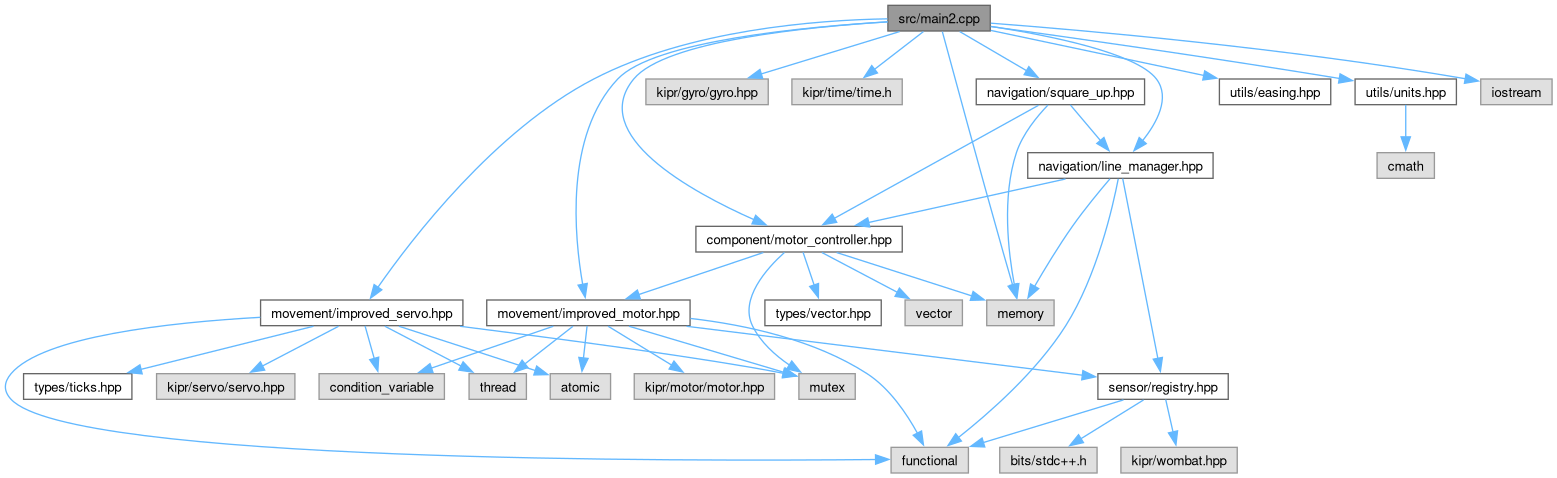
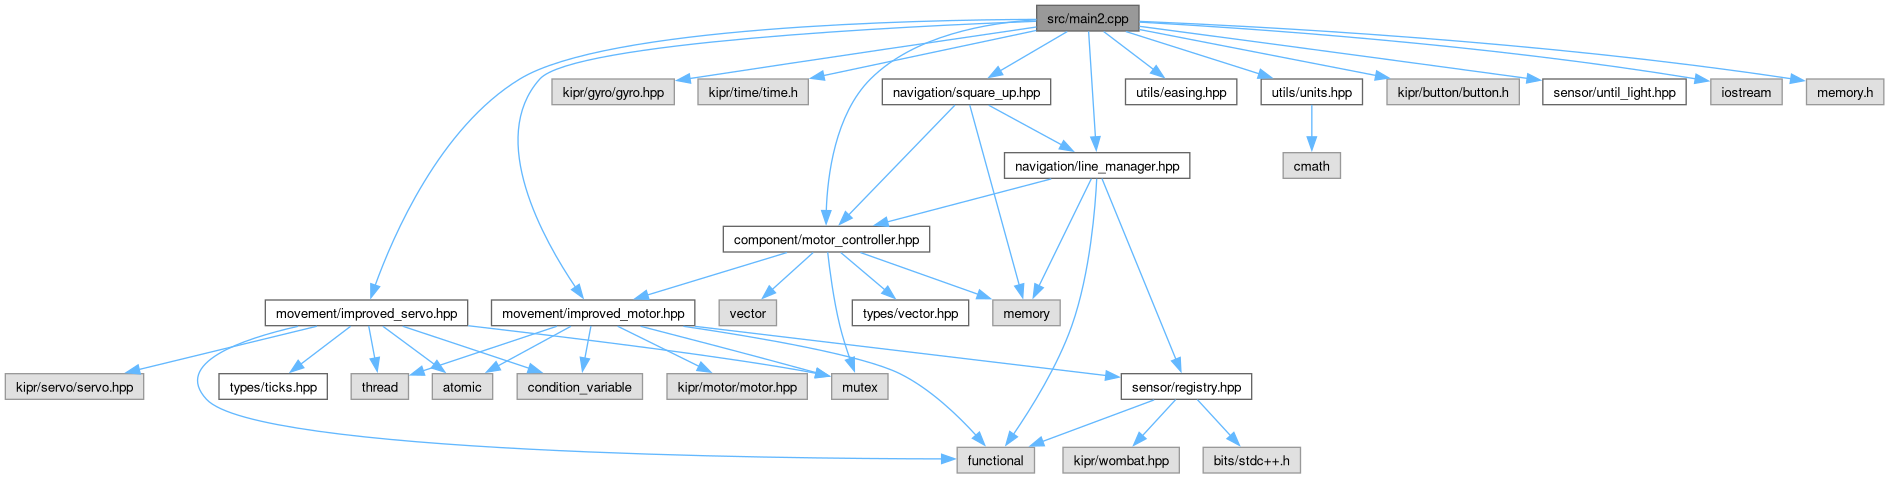
deploy: VentiBotball/venti-lib@db5460bce71724e69e527635307dcb5ff8ffeb50

diff --git a/dir_000012_000004.html b/dir_000012_000004.html
@@ -102,7 +102,7 @@ $(function(){initNavTree('dir_68267d1309a1af8e8297ef4c3efbcdba.html',''); initRe
 </div>
 
 <div class="contents">
-<h3>src &rarr; include Relation</h3><table class="dirtab"><tr class="dirtab"><th class="dirtab">File in src</th><th class="dirtab">Includes file in include</th></tr><tr class="dirtab"><td class="dirtab"><a class="el" href="dir_9b051f5a462ebc902d5afef8d9317d03.html">component</a>&#160;/&#160;<a class="el" href="arm__controller_8cpp.html">arm_controller.cpp</a></td><td class="dirtab"><a class="el" href="dir_d731d555c5e3812a0419949a634d88b3.html">component</a>&#160;/&#160;<a class="el" href="arm__controller_8hpp.html">arm_controller.hpp</a></td></tr><tr class="dirtab"><td class="dirtab"><a class="el" href="dir_9b051f5a462ebc902d5afef8d9317d03.html">component</a>&#160;/&#160;<a class="el" href="arm__controller_8cpp.html">arm_controller.cpp</a></td><td class="dirtab"><a class="el" href="dir_0ad255a918b7fba820a1ddafed6fa637.html">types</a>&#160;/&#160;<a class="el" href="vector_8hpp.html">vector.hpp</a></td></tr><tr class="dirtab"><td class="dirtab"><a class="el" href="dir_6d2104db64b91953bbd7b8fedbb8a094.html">communication</a>&#160;/&#160;<a class="el" href="client_8cpp.html">client.cpp</a></td><td class="dirtab"><a class="el" href="dir_ca930d033be57d703a34bf99bb5a03c5.html">communication</a>&#160;/&#160;<a class="el" href="client_8hpp.html">client.hpp</a></td></tr><tr class="dirtab"><td class="dirtab"><a class="el" href="dir_9b051f5a462ebc902d5afef8d9317d03.html">component</a>&#160;/&#160;<a class="el" href="dir_06cd9e38d0fe0886543590f69141c73e.html">motor_controller</a>&#160;/&#160;<a class="el" href="default__motor__controller_8cpp.html">default_motor_controller.cpp</a></td><td class="dirtab"><a class="el" href="dir_d731d555c5e3812a0419949a634d88b3.html">component</a>&#160;/&#160;<a class="el" href="motor__controller_8hpp.html">motor_controller.hpp</a></td></tr><tr class="dirtab"><td class="dirtab"><a class="el" href="dir_9b051f5a462ebc902d5afef8d9317d03.html">component</a>&#160;/&#160;<a class="el" href="dir_06cd9e38d0fe0886543590f69141c73e.html">motor_controller</a>&#160;/&#160;<a class="el" href="default__motor__controller_8cpp.html">default_motor_controller.cpp</a></td><td class="dirtab"><a class="el" href="dir_821002d4f10779a80d4fb17bc32f21f1.html">utils</a>&#160;/&#160;<a class="el" href="units_8hpp.html">units.hpp</a></td></tr><tr class="dirtab"><td class="dirtab"><a class="el" href="dir_6d2104db64b91953bbd7b8fedbb8a094.html">communication</a>&#160;/&#160;<a class="el" href="heartbeat_8cpp.html">heartbeat.cpp</a></td><td class="dirtab"><a class="el" href="dir_ca930d033be57d703a34bf99bb5a03c5.html">communication</a>&#160;/&#160;<a class="el" href="heartbeat_8hpp.html">heartbeat.hpp</a></td></tr><tr class="dirtab"><td class="dirtab"><a class="el" href="dir_3c3b062525f3b887eb50e782b5b052f0.html">movement</a>&#160;/&#160;<a class="el" href="improved__motor_8cpp.html">improved_motor.cpp</a></td><td class="dirtab"><a class="el" href="dir_0cdd1667b955f726f508381e5717a497.html">movement</a>&#160;/&#160;<a class="el" href="improved__motor_8hpp.html">improved_motor.hpp</a></td></tr><tr class="dirtab"><td class="dirtab"><a class="el" href="dir_3c3b062525f3b887eb50e782b5b052f0.html">movement</a>&#160;/&#160;<a class="el" href="improved__servo_8cpp.html">improved_servo.cpp</a></td><td class="dirtab"><a class="el" href="dir_0cdd1667b955f726f508381e5717a497.html">movement</a>&#160;/&#160;<a class="el" href="improved__servo_8hpp.html">improved_servo.hpp</a></td></tr><tr class="dirtab"><td class="dirtab"><a class="el" href="dir_b9f4d283f63ed92d53714bab84845a59.html">navigation</a>&#160;/&#160;<a class="el" href="line__manager_8cpp.html">line_manager.cpp</a></td><td class="dirtab"><a class="el" href="dir_f9a97623eb43c4acaa6b56958e1c8546.html">navigation</a>&#160;/&#160;<a class="el" href="line__manager_8hpp.html">line_manager.hpp</a></td></tr><tr class="dirtab"><td class="dirtab"><a class="el" href="main_8cpp.html">main.cpp</a></td><td class="dirtab"><a class="el" href="dir_d731d555c5e3812a0419949a634d88b3.html">component</a>&#160;/&#160;<a class="el" href="arm__controller_8hpp.html">arm_controller.hpp</a></td></tr><tr class="dirtab"><td class="dirtab"><a class="el" href="main_8cpp.html">main.cpp</a></td><td class="dirtab"><a class="el" href="dir_821002d4f10779a80d4fb17bc32f21f1.html">utils</a>&#160;/&#160;<a class="el" href="easing_8hpp.html">easing.hpp</a></td></tr><tr class="dirtab"><td class="dirtab"><a class="el" href="main_8cpp.html">main.cpp</a></td><td class="dirtab"><a class="el" href="dir_0cdd1667b955f726f508381e5717a497.html">movement</a>&#160;/&#160;<a class="el" href="improved__servo_8hpp.html">improved_servo.hpp</a></td></tr><tr class="dirtab"><td class="dirtab"><a class="el" href="main_8cpp.html">main.cpp</a></td><td class="dirtab"><a class="el" href="dir_f9a97623eb43c4acaa6b56958e1c8546.html">navigation</a>&#160;/&#160;<a class="el" href="line__manager_8hpp.html">line_manager.hpp</a></td></tr><tr class="dirtab"><td class="dirtab"><a class="el" href="main_8cpp.html">main.cpp</a></td><td class="dirtab"><a class="el" href="dir_d731d555c5e3812a0419949a634d88b3.html">component</a>&#160;/&#160;<a class="el" href="motor__controller_8hpp.html">motor_controller.hpp</a></td></tr><tr class="dirtab"><td class="dirtab"><a class="el" href="main_8cpp.html">main.cpp</a></td><td class="dirtab"><a class="el" href="dir_f9a97623eb43c4acaa6b56958e1c8546.html">navigation</a>&#160;/&#160;<a class="el" href="square__up_8hpp.html">square_up.hpp</a></td></tr><tr class="dirtab"><td class="dirtab"><a class="el" href="main_8cpp.html">main.cpp</a></td><td class="dirtab"><a class="el" href="dir_821002d4f10779a80d4fb17bc32f21f1.html">utils</a>&#160;/&#160;<a class="el" href="units_8hpp.html">units.hpp</a></td></tr><tr class="dirtab"><td class="dirtab"><a class="el" href="main_8cpp.html">main.cpp</a></td><td class="dirtab"><a class="el" href="dir_7b271abf9afd8594ceaf3484d66fcdf7.html">sensor</a>&#160;/&#160;<a class="el" href="until__light_8hpp.html">until_light.hpp</a></td></tr><tr class="dirtab"><td class="dirtab"><a class="el" href="main2_8cpp.html">main2.cpp</a></td><td class="dirtab"><a class="el" href="dir_821002d4f10779a80d4fb17bc32f21f1.html">utils</a>&#160;/&#160;<a class="el" href="easing_8hpp.html">easing.hpp</a></td></tr><tr class="dirtab"><td class="dirtab"><a class="el" href="main2_8cpp.html">main2.cpp</a></td><td class="dirtab"><a class="el" href="dir_0cdd1667b955f726f508381e5717a497.html">movement</a>&#160;/&#160;<a class="el" href="improved__motor_8hpp.html">improved_motor.hpp</a></td></tr><tr class="dirtab"><td class="dirtab"><a class="el" href="main2_8cpp.html">main2.cpp</a></td><td class="dirtab"><a class="el" href="dir_0cdd1667b955f726f508381e5717a497.html">movement</a>&#160;/&#160;<a class="el" href="improved__servo_8hpp.html">improved_servo.hpp</a></td></tr><tr class="dirtab"><td class="dirtab"><a class="el" href="main2_8cpp.html">main2.cpp</a></td><td class="dirtab"><a class="el" href="dir_f9a97623eb43c4acaa6b56958e1c8546.html">navigation</a>&#160;/&#160;<a class="el" href="line__manager_8hpp.html">line_manager.hpp</a></td></tr><tr class="dirtab"><td class="dirtab"><a class="el" href="main2_8cpp.html">main2.cpp</a></td><td class="dirtab"><a class="el" href="dir_d731d555c5e3812a0419949a634d88b3.html">component</a>&#160;/&#160;<a class="el" href="motor__controller_8hpp.html">motor_controller.hpp</a></td></tr><tr class="dirtab"><td class="dirtab"><a class="el" href="main2_8cpp.html">main2.cpp</a></td><td class="dirtab"><a class="el" href="dir_f9a97623eb43c4acaa6b56958e1c8546.html">navigation</a>&#160;/&#160;<a class="el" href="square__up_8hpp.html">square_up.hpp</a></td></tr><tr class="dirtab"><td class="dirtab"><a class="el" href="main2_8cpp.html">main2.cpp</a></td><td class="dirtab"><a class="el" href="dir_821002d4f10779a80d4fb17bc32f21f1.html">utils</a>&#160;/&#160;<a class="el" href="units_8hpp.html">units.hpp</a></td></tr><tr class="dirtab"><td class="dirtab"><a class="el" href="dir_9b051f5a462ebc902d5afef8d9317d03.html">component</a>&#160;/&#160;<a class="el" href="dir_06cd9e38d0fe0886543590f69141c73e.html">motor_controller</a>&#160;/&#160;<a class="el" href="mecanum__motor__controller_8cpp.html">mecanum_motor_controller.cpp</a></td><td class="dirtab"><a class="el" href="dir_d731d555c5e3812a0419949a634d88b3.html">component</a>&#160;/&#160;<a class="el" href="motor__controller_8hpp.html">motor_controller.hpp</a></td></tr><tr class="dirtab"><td class="dirtab"><a class="el" href="dir_9b051f5a462ebc902d5afef8d9317d03.html">component</a>&#160;/&#160;<a class="el" href="dir_06cd9e38d0fe0886543590f69141c73e.html">motor_controller</a>&#160;/&#160;<a class="el" href="motor__controller_8cpp.html">motor_controller.cpp</a></td><td class="dirtab"><a class="el" href="dir_d731d555c5e3812a0419949a634d88b3.html">component</a>&#160;/&#160;<a class="el" href="motor__controller_8hpp.html">motor_controller.hpp</a></td></tr><tr class="dirtab"><td class="dirtab"><a class="el" href="dir_b9f4d283f63ed92d53714bab84845a59.html">navigation</a>&#160;/&#160;<a class="el" href="playground_8cpp.html">playground.cpp</a></td><td class="dirtab"><a class="el" href="dir_f9a97623eb43c4acaa6b56958e1c8546.html">navigation</a>&#160;/&#160;<a class="el" href="playground_8hpp.html">playground.hpp</a></td></tr><tr class="dirtab"><td class="dirtab"><a class="el" href="dir_919653a6098570dc99a63e645d1b29db.html">sensor</a>&#160;/&#160;<a class="el" href="registry_8cpp.html">registry.cpp</a></td><td class="dirtab"><a class="el" href="dir_7b271abf9afd8594ceaf3484d66fcdf7.html">sensor</a>&#160;/&#160;<a class="el" href="registry_8hpp.html">registry.hpp</a></td></tr><tr class="dirtab"><td class="dirtab"><a class="el" href="dir_6d2104db64b91953bbd7b8fedbb8a094.html">communication</a>&#160;/&#160;<a class="el" href="server_8cpp.html">server.cpp</a></td><td class="dirtab"><a class="el" href="dir_ca930d033be57d703a34bf99bb5a03c5.html">communication</a>&#160;/&#160;<a class="el" href="server_8hpp.html">server.hpp</a></td></tr><tr class="dirtab"><td class="dirtab"><a class="el" href="dir_b9f4d283f63ed92d53714bab84845a59.html">navigation</a>&#160;/&#160;<a class="el" href="square__up_8cpp.html">square_up.cpp</a></td><td class="dirtab"><a class="el" href="dir_f9a97623eb43c4acaa6b56958e1c8546.html">navigation</a>&#160;/&#160;<a class="el" href="square__up_8hpp.html">square_up.hpp</a></td></tr><tr class="dirtab"><td class="dirtab"><a class="el" href="dir_919653a6098570dc99a63e645d1b29db.html">sensor</a>&#160;/&#160;<a class="el" href="until__light_8cpp.html">until_light.cpp</a></td><td class="dirtab"><a class="el" href="dir_821002d4f10779a80d4fb17bc32f21f1.html">utils</a>&#160;/&#160;<a class="el" href="units_8hpp.html">units.hpp</a></td></tr><tr class="dirtab"><td class="dirtab"><a class="el" href="dir_313caf1132e152dd9b58bea13a4052ca.html">utils</a>&#160;/&#160;<a class="el" href="easing_8cpp.html">easing.cpp</a></td><td class="dirtab"><a class="el" href="dir_821002d4f10779a80d4fb17bc32f21f1.html">utils</a>&#160;/&#160;<a class="el" href="easing_8hpp.html">easing.hpp</a></td></tr><tr class="dirtab"><td class="dirtab"><a class="el" href="dir_313caf1132e152dd9b58bea13a4052ca.html">utils</a>&#160;/&#160;<a class="el" href="vector_8cpp.html">vector.cpp</a></td><td class="dirtab"><a class="el" href="dir_0ad255a918b7fba820a1ddafed6fa637.html">types</a>&#160;/&#160;<a class="el" href="vector_8hpp.html">vector.hpp</a></td></tr></table></div><!-- contents -->
+<h3>src &rarr; include Relation</h3><table class="dirtab"><tr class="dirtab"><th class="dirtab">File in src</th><th class="dirtab">Includes file in include</th></tr><tr class="dirtab"><td class="dirtab"><a class="el" href="dir_9b051f5a462ebc902d5afef8d9317d03.html">component</a>&#160;/&#160;<a class="el" href="arm__controller_8cpp.html">arm_controller.cpp</a></td><td class="dirtab"><a class="el" href="dir_d731d555c5e3812a0419949a634d88b3.html">component</a>&#160;/&#160;<a class="el" href="arm__controller_8hpp.html">arm_controller.hpp</a></td></tr><tr class="dirtab"><td class="dirtab"><a class="el" href="dir_9b051f5a462ebc902d5afef8d9317d03.html">component</a>&#160;/&#160;<a class="el" href="arm__controller_8cpp.html">arm_controller.cpp</a></td><td class="dirtab"><a class="el" href="dir_0ad255a918b7fba820a1ddafed6fa637.html">types</a>&#160;/&#160;<a class="el" href="vector_8hpp.html">vector.hpp</a></td></tr><tr class="dirtab"><td class="dirtab"><a class="el" href="dir_6d2104db64b91953bbd7b8fedbb8a094.html">communication</a>&#160;/&#160;<a class="el" href="client_8cpp.html">client.cpp</a></td><td class="dirtab"><a class="el" href="dir_ca930d033be57d703a34bf99bb5a03c5.html">communication</a>&#160;/&#160;<a class="el" href="client_8hpp.html">client.hpp</a></td></tr><tr class="dirtab"><td class="dirtab"><a class="el" href="dir_9b051f5a462ebc902d5afef8d9317d03.html">component</a>&#160;/&#160;<a class="el" href="dir_06cd9e38d0fe0886543590f69141c73e.html">motor_controller</a>&#160;/&#160;<a class="el" href="default__motor__controller_8cpp.html">default_motor_controller.cpp</a></td><td class="dirtab"><a class="el" href="dir_d731d555c5e3812a0419949a634d88b3.html">component</a>&#160;/&#160;<a class="el" href="motor__controller_8hpp.html">motor_controller.hpp</a></td></tr><tr class="dirtab"><td class="dirtab"><a class="el" href="dir_9b051f5a462ebc902d5afef8d9317d03.html">component</a>&#160;/&#160;<a class="el" href="dir_06cd9e38d0fe0886543590f69141c73e.html">motor_controller</a>&#160;/&#160;<a class="el" href="default__motor__controller_8cpp.html">default_motor_controller.cpp</a></td><td class="dirtab"><a class="el" href="dir_821002d4f10779a80d4fb17bc32f21f1.html">utils</a>&#160;/&#160;<a class="el" href="units_8hpp.html">units.hpp</a></td></tr><tr class="dirtab"><td class="dirtab"><a class="el" href="dir_6d2104db64b91953bbd7b8fedbb8a094.html">communication</a>&#160;/&#160;<a class="el" href="heartbeat_8cpp.html">heartbeat.cpp</a></td><td class="dirtab"><a class="el" href="dir_ca930d033be57d703a34bf99bb5a03c5.html">communication</a>&#160;/&#160;<a class="el" href="heartbeat_8hpp.html">heartbeat.hpp</a></td></tr><tr class="dirtab"><td class="dirtab"><a class="el" href="dir_3c3b062525f3b887eb50e782b5b052f0.html">movement</a>&#160;/&#160;<a class="el" href="improved__motor_8cpp.html">improved_motor.cpp</a></td><td class="dirtab"><a class="el" href="dir_0cdd1667b955f726f508381e5717a497.html">movement</a>&#160;/&#160;<a class="el" href="improved__motor_8hpp.html">improved_motor.hpp</a></td></tr><tr class="dirtab"><td class="dirtab"><a class="el" href="dir_3c3b062525f3b887eb50e782b5b052f0.html">movement</a>&#160;/&#160;<a class="el" href="improved__servo_8cpp.html">improved_servo.cpp</a></td><td class="dirtab"><a class="el" href="dir_0cdd1667b955f726f508381e5717a497.html">movement</a>&#160;/&#160;<a class="el" href="improved__servo_8hpp.html">improved_servo.hpp</a></td></tr><tr class="dirtab"><td class="dirtab"><a class="el" href="dir_b9f4d283f63ed92d53714bab84845a59.html">navigation</a>&#160;/&#160;<a class="el" href="line__manager_8cpp.html">line_manager.cpp</a></td><td class="dirtab"><a class="el" href="dir_f9a97623eb43c4acaa6b56958e1c8546.html">navigation</a>&#160;/&#160;<a class="el" href="line__manager_8hpp.html">line_manager.hpp</a></td></tr><tr class="dirtab"><td class="dirtab"><a class="el" href="main_8cpp.html">main.cpp</a></td><td class="dirtab"><a class="el" href="dir_d731d555c5e3812a0419949a634d88b3.html">component</a>&#160;/&#160;<a class="el" href="arm__controller_8hpp.html">arm_controller.hpp</a></td></tr><tr class="dirtab"><td class="dirtab"><a class="el" href="main_8cpp.html">main.cpp</a></td><td class="dirtab"><a class="el" href="dir_821002d4f10779a80d4fb17bc32f21f1.html">utils</a>&#160;/&#160;<a class="el" href="easing_8hpp.html">easing.hpp</a></td></tr><tr class="dirtab"><td class="dirtab"><a class="el" href="main_8cpp.html">main.cpp</a></td><td class="dirtab"><a class="el" href="dir_0cdd1667b955f726f508381e5717a497.html">movement</a>&#160;/&#160;<a class="el" href="improved__servo_8hpp.html">improved_servo.hpp</a></td></tr><tr class="dirtab"><td class="dirtab"><a class="el" href="main_8cpp.html">main.cpp</a></td><td class="dirtab"><a class="el" href="dir_f9a97623eb43c4acaa6b56958e1c8546.html">navigation</a>&#160;/&#160;<a class="el" href="line__manager_8hpp.html">line_manager.hpp</a></td></tr><tr class="dirtab"><td class="dirtab"><a class="el" href="main_8cpp.html">main.cpp</a></td><td class="dirtab"><a class="el" href="dir_d731d555c5e3812a0419949a634d88b3.html">component</a>&#160;/&#160;<a class="el" href="motor__controller_8hpp.html">motor_controller.hpp</a></td></tr><tr class="dirtab"><td class="dirtab"><a class="el" href="main_8cpp.html">main.cpp</a></td><td class="dirtab"><a class="el" href="dir_f9a97623eb43c4acaa6b56958e1c8546.html">navigation</a>&#160;/&#160;<a class="el" href="square__up_8hpp.html">square_up.hpp</a></td></tr><tr class="dirtab"><td class="dirtab"><a class="el" href="main_8cpp.html">main.cpp</a></td><td class="dirtab"><a class="el" href="dir_821002d4f10779a80d4fb17bc32f21f1.html">utils</a>&#160;/&#160;<a class="el" href="units_8hpp.html">units.hpp</a></td></tr><tr class="dirtab"><td class="dirtab"><a class="el" href="main_8cpp.html">main.cpp</a></td><td class="dirtab"><a class="el" href="dir_7b271abf9afd8594ceaf3484d66fcdf7.html">sensor</a>&#160;/&#160;<a class="el" href="until__light_8hpp.html">until_light.hpp</a></td></tr><tr class="dirtab"><td class="dirtab"><a class="el" href="main2_8cpp.html">main2.cpp</a></td><td class="dirtab"><a class="el" href="dir_821002d4f10779a80d4fb17bc32f21f1.html">utils</a>&#160;/&#160;<a class="el" href="easing_8hpp.html">easing.hpp</a></td></tr><tr class="dirtab"><td class="dirtab"><a class="el" href="main2_8cpp.html">main2.cpp</a></td><td class="dirtab"><a class="el" href="dir_0cdd1667b955f726f508381e5717a497.html">movement</a>&#160;/&#160;<a class="el" href="improved__motor_8hpp.html">improved_motor.hpp</a></td></tr><tr class="dirtab"><td class="dirtab"><a class="el" href="main2_8cpp.html">main2.cpp</a></td><td class="dirtab"><a class="el" href="dir_0cdd1667b955f726f508381e5717a497.html">movement</a>&#160;/&#160;<a class="el" href="improved__servo_8hpp.html">improved_servo.hpp</a></td></tr><tr class="dirtab"><td class="dirtab"><a class="el" href="main2_8cpp.html">main2.cpp</a></td><td class="dirtab"><a class="el" href="dir_f9a97623eb43c4acaa6b56958e1c8546.html">navigation</a>&#160;/&#160;<a class="el" href="line__manager_8hpp.html">line_manager.hpp</a></td></tr><tr class="dirtab"><td class="dirtab"><a class="el" href="main2_8cpp.html">main2.cpp</a></td><td class="dirtab"><a class="el" href="dir_d731d555c5e3812a0419949a634d88b3.html">component</a>&#160;/&#160;<a class="el" href="motor__controller_8hpp.html">motor_controller.hpp</a></td></tr><tr class="dirtab"><td class="dirtab"><a class="el" href="main2_8cpp.html">main2.cpp</a></td><td class="dirtab"><a class="el" href="dir_f9a97623eb43c4acaa6b56958e1c8546.html">navigation</a>&#160;/&#160;<a class="el" href="square__up_8hpp.html">square_up.hpp</a></td></tr><tr class="dirtab"><td class="dirtab"><a class="el" href="main2_8cpp.html">main2.cpp</a></td><td class="dirtab"><a class="el" href="dir_821002d4f10779a80d4fb17bc32f21f1.html">utils</a>&#160;/&#160;<a class="el" href="units_8hpp.html">units.hpp</a></td></tr><tr class="dirtab"><td class="dirtab"><a class="el" href="main2_8cpp.html">main2.cpp</a></td><td class="dirtab"><a class="el" href="dir_7b271abf9afd8594ceaf3484d66fcdf7.html">sensor</a>&#160;/&#160;<a class="el" href="until__light_8hpp.html">until_light.hpp</a></td></tr><tr class="dirtab"><td class="dirtab"><a class="el" href="dir_9b051f5a462ebc902d5afef8d9317d03.html">component</a>&#160;/&#160;<a class="el" href="dir_06cd9e38d0fe0886543590f69141c73e.html">motor_controller</a>&#160;/&#160;<a class="el" href="mecanum__motor__controller_8cpp.html">mecanum_motor_controller.cpp</a></td><td class="dirtab"><a class="el" href="dir_d731d555c5e3812a0419949a634d88b3.html">component</a>&#160;/&#160;<a class="el" href="motor__controller_8hpp.html">motor_controller.hpp</a></td></tr><tr class="dirtab"><td class="dirtab"><a class="el" href="dir_9b051f5a462ebc902d5afef8d9317d03.html">component</a>&#160;/&#160;<a class="el" href="dir_06cd9e38d0fe0886543590f69141c73e.html">motor_controller</a>&#160;/&#160;<a class="el" href="motor__controller_8cpp.html">motor_controller.cpp</a></td><td class="dirtab"><a class="el" href="dir_d731d555c5e3812a0419949a634d88b3.html">component</a>&#160;/&#160;<a class="el" href="motor__controller_8hpp.html">motor_controller.hpp</a></td></tr><tr class="dirtab"><td class="dirtab"><a class="el" href="dir_b9f4d283f63ed92d53714bab84845a59.html">navigation</a>&#160;/&#160;<a class="el" href="playground_8cpp.html">playground.cpp</a></td><td class="dirtab"><a class="el" href="dir_f9a97623eb43c4acaa6b56958e1c8546.html">navigation</a>&#160;/&#160;<a class="el" href="playground_8hpp.html">playground.hpp</a></td></tr><tr class="dirtab"><td class="dirtab"><a class="el" href="dir_919653a6098570dc99a63e645d1b29db.html">sensor</a>&#160;/&#160;<a class="el" href="registry_8cpp.html">registry.cpp</a></td><td class="dirtab"><a class="el" href="dir_7b271abf9afd8594ceaf3484d66fcdf7.html">sensor</a>&#160;/&#160;<a class="el" href="registry_8hpp.html">registry.hpp</a></td></tr><tr class="dirtab"><td class="dirtab"><a class="el" href="dir_6d2104db64b91953bbd7b8fedbb8a094.html">communication</a>&#160;/&#160;<a class="el" href="server_8cpp.html">server.cpp</a></td><td class="dirtab"><a class="el" href="dir_ca930d033be57d703a34bf99bb5a03c5.html">communication</a>&#160;/&#160;<a class="el" href="server_8hpp.html">server.hpp</a></td></tr><tr class="dirtab"><td class="dirtab"><a class="el" href="dir_b9f4d283f63ed92d53714bab84845a59.html">navigation</a>&#160;/&#160;<a class="el" href="square__up_8cpp.html">square_up.cpp</a></td><td class="dirtab"><a class="el" href="dir_f9a97623eb43c4acaa6b56958e1c8546.html">navigation</a>&#160;/&#160;<a class="el" href="square__up_8hpp.html">square_up.hpp</a></td></tr><tr class="dirtab"><td class="dirtab"><a class="el" href="dir_919653a6098570dc99a63e645d1b29db.html">sensor</a>&#160;/&#160;<a class="el" href="until__light_8cpp.html">until_light.cpp</a></td><td class="dirtab"><a class="el" href="dir_821002d4f10779a80d4fb17bc32f21f1.html">utils</a>&#160;/&#160;<a class="el" href="units_8hpp.html">units.hpp</a></td></tr><tr class="dirtab"><td class="dirtab"><a class="el" href="dir_313caf1132e152dd9b58bea13a4052ca.html">utils</a>&#160;/&#160;<a class="el" href="easing_8cpp.html">easing.cpp</a></td><td class="dirtab"><a class="el" href="dir_821002d4f10779a80d4fb17bc32f21f1.html">utils</a>&#160;/&#160;<a class="el" href="easing_8hpp.html">easing.hpp</a></td></tr><tr class="dirtab"><td class="dirtab"><a class="el" href="dir_313caf1132e152dd9b58bea13a4052ca.html">utils</a>&#160;/&#160;<a class="el" href="vector_8cpp.html">vector.cpp</a></td><td class="dirtab"><a class="el" href="dir_0ad255a918b7fba820a1ddafed6fa637.html">types</a>&#160;/&#160;<a class="el" href="vector_8hpp.html">vector.hpp</a></td></tr></table></div><!-- contents -->
 </div><!-- doc-content -->
 <!-- start footer part -->
 <div id="nav-path" class="navpath"><!-- id is needed for treeview function! -->

diff --git a/main2_8cpp.html b/main2_8cpp.html
@@ -116,80 +116,87 @@ $(function(){initNavTree('main2_8cpp.html',''); initResizable(true); });
 <code>#include &quot;<a class="el" href="square__up_8hpp_source.html">navigation/square_up.hpp</a>&quot;</code><br />
 <code>#include &quot;<a class="el" href="easing_8hpp_source.html">utils/easing.hpp</a>&quot;</code><br />
 <code>#include &quot;<a class="el" href="units_8hpp_source.html">utils/units.hpp</a>&quot;</code><br />
+<code>#include &quot;kipr/button/button.h&quot;</code><br />
+<code>#include &quot;<a class="el" href="until__light_8hpp_source.html">sensor/until_light.hpp</a>&quot;</code><br />
 <code>#include &lt;iostream&gt;</code><br />
-<code>#include &lt;memory&gt;</code><br />
+<code>#include &lt;memory.h&gt;</code><br />
 </div><div class="textblock"><div class="dynheader">
 Include dependency graph for main2.cpp:</div>
 <div class="dyncontent">
 <div class="center"><img src="main2_8cpp__incl.png" border="0" usemap="#asrc_2main2_8cpp" alt=""/></div>
 <map name="asrc_2main2_8cpp" id="asrc_2main2_8cpp">
-<area shape="rect" title=" " alt="" coords="888,5,990,31"/>
-<area shape="rect" href="motor__controller_8hpp.html" title=" " alt="" coords="696,226,902,252"/>
-<area shape="poly" title=" " alt="" coords="888,25,820,30,744,40,677,57,652,68,636,81,626,100,627,120,637,139,655,158,703,191,755,217,753,222,701,196,651,162,633,142,622,121,620,99,632,77,649,63,675,52,743,35,819,25,887,19"/>
-<area shape="rect" title=" " alt="" coords="987,300,1054,326"/>
-<area shape="poly" title=" " alt="" coords="945,31,1006,251,1015,284,1010,286,1001,253,940,32"/>
-<area shape="rect" href="improved__motor_8hpp.html" title=" " alt="" coords="487,300,690,326"/>
-<area shape="poly" title=" " alt="" coords="888,25,817,30,736,41,665,57,638,68,620,81,603,103,591,129,584,157,580,185,580,240,585,284,580,285,574,240,574,185,578,156,586,127,598,101,616,77,635,63,663,52,735,35,816,25,887,19"/>
-<area shape="rect" title=" " alt="" coords="646,79,768,105"/>
-<area shape="poly" title=" " alt="" coords="900,34,762,77,760,71,899,29"/>
-<area shape="rect" title=" " alt="" coords="792,79,902,105"/>
-<area shape="poly" title=" " alt="" coords="925,34,876,72,873,67,922,29"/>
-<area shape="rect" href="improved__servo_8hpp.html" title=" " alt="" coords="261,300,463,326"/>
-<area shape="poly" title=" " alt="" coords="888,22,825,24,750,33,671,51,632,65,595,81,559,103,525,128,463,186,414,243,380,289,376,286,410,240,459,182,521,124,556,99,593,77,630,60,669,46,749,28,825,19,887,16"/>
-<area shape="rect" href="line__manager_8hpp.html" title=" " alt="" coords="1028,153,1213,178"/>
-<area shape="poly" title=" " alt="" coords="991,24,1088,44,1131,59,1158,77,1165,94,1163,111,1145,142,1140,140,1158,109,1160,94,1154,81,1129,63,1087,49,990,29"/>
-<area shape="rect" href="square__up_8hpp.html" title=" " alt="" coords="976,79,1145,105"/>
-<area shape="poly" title=" " alt="" coords="961,29,1028,68,1025,73,958,34"/>
-<area shape="rect" href="easing_8hpp.html" title=" " alt="" coords="1219,79,1331,105"/>
-<area shape="poly" title=" " alt="" coords="991,28,1205,73,1203,78,990,33"/>
-<area shape="rect" href="units_8hpp.html" title=" " alt="" coords="1355,79,1456,105"/>
-<area shape="poly" title=" " alt="" coords="991,24,1340,76,1339,81,990,29"/>
-<area shape="rect" title=" " alt="" coords="1481,79,1552,105"/>
-<area shape="poly" title=" " alt="" coords="991,21,1195,39,1328,55,1466,76,1465,81,1327,61,1194,45,991,26"/>
-<area shape="poly" title=" " alt="" coords="837,250,973,293,971,299,836,255"/>
-<area shape="rect" title=" " alt="" coords="799,374,855,399"/>
-<area shape="poly" title=" " alt="" coords="786,254,772,269,759,286,752,306,755,325,770,346,791,363,788,367,767,350,750,327,747,305,754,284,768,265,783,251"/>
-<area shape="rect" title=" " alt="" coords="905,300,962,326"/>
-<area shape="poly" title=" " alt="" coords="823,250,899,290,896,295,821,255"/>
-<area shape="poly" title=" " alt="" coords="764,255,640,297,638,292,762,250"/>
-<area shape="rect" href="vector_8hpp.html" title=" " alt="" coords="765,300,881,326"/>
-<area shape="poly" title=" " alt="" coords="806,251,817,284,812,286,801,253"/>
-<area shape="poly" title=" " alt="" coords="630,324,785,370,783,375,628,329"/>
-<area shape="rect" href="registry_8hpp.html" title=" " alt="" coords="1098,374,1228,399"/>
-<area shape="poly" title=" " alt="" coords="687,324,1083,373,1082,378,686,329"/>
-<area shape="rect" title=" " alt="" coords="891,447,968,473"/>
-<area shape="poly" title=" " alt="" coords="691,316,735,322,781,333,826,349,869,371,899,400,920,432,915,435,895,403,866,376,824,354,779,338,734,328,690,321"/>
-<area shape="rect" title=" " alt="" coords="550,374,611,399"/>
-<area shape="poly" title=" " alt="" coords="590,326,586,359,581,358,584,326"/>
-<area shape="rect" title=" " alt="" coords="319,374,444,399"/>
-<area shape="poly" title=" " alt="" coords="554,329,432,371,430,366,552,324"/>
-<area shape="rect" title=" " alt="" coords="634,374,775,399"/>
-<area shape="poly" title=" " alt="" coords="609,324,673,363,671,368,607,328"/>
-<area shape="rect" title=" " alt="" coords="469,374,526,399"/>
-<area shape="poly" title=" " alt="" coords="575,328,526,366,523,362,571,324"/>
-<area shape="rect" title=" " alt="" coords="1000,447,1097,473"/>
-<area shape="poly" title=" " alt="" coords="1145,402,1082,441,1080,436,1142,398"/>
-<area shape="poly" title=" " alt="" coords="1124,402,984,445,982,440,1123,397"/>
-<area shape="rect" title=" " alt="" coords="1121,447,1237,473"/>
-<area shape="poly" title=" " alt="" coords="1168,399,1176,431,1170,432,1163,400"/>
-<area shape="poly" title=" " alt="" coords="460,324,630,346,784,371,783,376,629,351,460,329"/>
-<area shape="poly" title=" " alt="" coords="261,320,187,326,114,336,51,352,28,363,13,375,8,387,13,398,30,408,58,418,145,433,261,444,395,451,669,457,876,457,876,462,669,462,395,456,261,449,144,438,57,423,27,413,9,401,3,387,9,372,26,359,49,347,112,331,187,320,260,315"/>
-<area shape="poly" title=" " alt="" coords="400,324,536,368,535,373,398,329"/>
-<area shape="poly" title=" " alt="" coords="368,325,377,358,372,359,362,327"/>
-<area shape="poly" title=" " alt="" coords="386,324,462,364,460,368,384,329"/>
-<area shape="rect" href="ticks_8hpp.html" title=" " alt="" coords="24,374,132,399"/>
-<area shape="poly" title=" " alt="" coords="314,329,142,372,140,367,313,324"/>
-<area shape="rect" title=" " alt="" coords="157,374,295,399"/>
-<area shape="poly" title=" " alt="" coords="340,329,264,368,261,364,337,324"/>
-<area shape="poly" title=" " alt="" coords="1066,182,869,225,868,220,1065,176"/>
-<area shape="poly" title=" " alt="" coords="1112,180,1075,228,1037,288,1032,285,1070,225,1108,177"/>
-<area shape="poly" title=" " alt="" coords="1125,178,1161,358,1155,359,1120,179"/>
-<area shape="poly" title=" " alt="" coords="1121,179,1104,245,1089,287,1068,327,1043,361,1014,392,960,440,957,436,1011,388,1039,357,1063,324,1084,285,1099,243,1116,178"/>
-<area shape="poly" title=" " alt="" coords="1040,108,835,221,833,216,1037,103"/>
-<area shape="poly" title=" " alt="" coords="1050,107,1033,127,1019,154,1012,188,1010,223,1017,284,1012,285,1005,223,1006,187,1014,152,1028,124,1046,103"/>
-<area shape="poly" title=" " alt="" coords="1072,103,1103,139,1099,142,1068,107"/>
-<area shape="rect" title=" " alt="" coords="1377,153,1434,178"/>
-<area shape="poly" title=" " alt="" coords="1408,105,1408,137,1403,137,1403,105"/>
+<area shape="rect" title=" " alt="" coords="1037,5,1139,31"/>
+<area shape="rect" href="motor__controller_8hpp.html" title=" " alt="" coords="723,226,930,252"/>
+<area shape="poly" title=" " alt="" coords="1037,22,996,27,952,37,909,54,872,81,851,111,838,146,831,181,829,211,824,211,826,180,833,144,846,108,869,77,907,49,951,32,995,22,1036,17"/>
+<area shape="rect" href="improved__motor_8hpp.html" title=" " alt="" coords="492,300,695,326"/>
+<area shape="poly" title=" " alt="" coords="1036,24,908,30,752,41,613,58,566,69,542,81,527,104,521,130,522,158,528,187,551,242,578,286,573,288,547,244,523,189,517,159,516,130,522,102,538,77,564,64,612,53,751,36,908,25,1036,19"/>
+<area shape="rect" title=" " alt="" coords="552,79,674,105"/>
+<area shape="poly" title=" " alt="" coords="1037,30,690,81,689,76,1036,24"/>
+<area shape="rect" title=" " alt="" coords="698,79,808,105"/>
+<area shape="poly" title=" " alt="" coords="1037,33,824,78,823,73,1036,28"/>
+<area shape="rect" href="improved__servo_8hpp.html" title=" " alt="" coords="265,300,468,326"/>
+<area shape="poly" title=" " alt="" coords="1036,22,916,24,764,32,689,40,620,50,563,64,521,81,493,102,468,127,426,183,396,240,377,287,373,285,392,238,422,181,464,123,490,98,519,77,561,59,619,45,688,35,764,27,916,19,1036,17"/>
+<area shape="rect" href="line__manager_8hpp.html" title=" " alt="" coords="1004,153,1190,178"/>
+<area shape="poly" title=" " alt="" coords="1091,31,1098,137,1093,137,1086,32"/>
+<area shape="rect" href="square__up_8hpp.html" title=" " alt="" coords="882,79,1051,105"/>
+<area shape="poly" title=" " alt="" coords="1069,34,1002,73,999,68,1066,29"/>
+<area shape="rect" href="easing_8hpp.html" title=" " alt="" coords="1126,79,1237,105"/>
+<area shape="poly" title=" " alt="" coords="1105,29,1155,67,1152,72,1102,34"/>
+<area shape="rect" href="units_8hpp.html" title=" " alt="" coords="1261,79,1362,105"/>
+<area shape="poly" title=" " alt="" coords="1127,29,1260,71,1259,76,1125,34"/>
+<area shape="rect" title=" " alt="" coords="1387,79,1519,105"/>
+<area shape="poly" title=" " alt="" coords="1140,27,1377,73,1376,78,1139,32"/>
+<area shape="rect" href="until__light_8hpp.html" title=" " alt="" coords="1543,79,1686,105"/>
+<area shape="poly" title=" " alt="" coords="1140,24,1528,76,1527,81,1139,29"/>
+<area shape="rect" title=" " alt="" coords="1711,79,1782,105"/>
+<area shape="poly" title=" " alt="" coords="1140,19,1377,37,1534,53,1696,76,1695,81,1533,59,1376,42,1139,25"/>
+<area shape="rect" title=" " alt="" coords="1806,79,1884,105"/>
+<area shape="poly" title=" " alt="" coords="1140,19,1414,35,1600,52,1791,76,1791,81,1599,57,1414,40,1139,24"/>
+<area shape="rect" title=" " alt="" coords="993,300,1060,326"/>
+<area shape="poly" title=" " alt="" coords="861,250,979,292,977,297,860,255"/>
+<area shape="rect" title=" " alt="" coords="832,374,888,399"/>
+<area shape="poly" title=" " alt="" coords="830,252,842,325,852,358,847,359,837,326,825,253"/>
+<area shape="rect" title=" " alt="" coords="719,300,776,326"/>
+<area shape="poly" title=" " alt="" coords="815,255,774,291,771,287,811,251"/>
+<area shape="poly" title=" " alt="" coords="788,255,648,298,647,292,786,250"/>
+<area shape="rect" href="vector_8hpp.html" title=" " alt="" coords="852,300,969,326"/>
+<area shape="poly" title=" " alt="" coords="842,251,886,288,883,292,839,255"/>
+<area shape="poly" title=" " alt="" coords="641,324,817,370,816,375,640,329"/>
+<area shape="rect" href="registry_8hpp.html" title=" " alt="" coords="1121,374,1252,399"/>
+<area shape="poly" title=" " alt="" coords="695,324,1106,373,1106,378,695,329"/>
+<area shape="rect" title=" " alt="" coords="957,447,1034,473"/>
+<area shape="poly" title=" " alt="" coords="684,324,807,345,862,358,901,371,944,401,978,434,974,438,941,405,899,376,860,363,806,350,683,329"/>
+<area shape="rect" title=" " alt="" coords="432,374,493,399"/>
+<area shape="poly" title=" " alt="" coords="572,329,499,368,496,364,570,324"/>
+<area shape="rect" title=" " alt="" coords="517,374,642,399"/>
+<area shape="poly" title=" " alt="" coords="594,326,588,359,582,358,588,325"/>
+<area shape="rect" title=" " alt="" coords="667,374,807,399"/>
+<area shape="poly" title=" " alt="" coords="619,324,700,364,698,369,616,329"/>
+<area shape="rect" title=" " alt="" coords="351,374,408,399"/>
+<area shape="poly" title=" " alt="" coords="558,329,424,373,422,368,556,324"/>
+<area shape="rect" title=" " alt="" coords="1203,447,1300,473"/>
+<area shape="poly" title=" " alt="" coords="1199,398,1233,434,1229,438,1195,401"/>
+<area shape="poly" title=" " alt="" coords="1155,402,1043,444,1041,439,1153,397"/>
+<area shape="rect" title=" " alt="" coords="1063,447,1179,473"/>
+<area shape="poly" title=" " alt="" coords="1178,401,1144,438,1140,434,1174,398"/>
+<area shape="poly" title=" " alt="" coords="469,323,651,346,817,371,816,376,651,351,468,328"/>
+<area shape="poly" title=" " alt="" coords="299,329,256,341,220,356,208,366,201,375,201,386,208,397,222,406,246,415,319,429,417,439,530,447,763,454,942,456,942,462,763,460,529,452,416,444,318,434,245,420,220,411,205,401,196,387,196,374,204,362,217,352,254,336,297,324"/>
+<area shape="poly" title=" " alt="" coords="384,324,436,362,433,367,381,328"/>
+<area shape="poly" title=" " alt="" coords="404,324,530,366,528,371,402,329"/>
+<area shape="poly" title=" " alt="" coords="371,325,377,358,372,359,366,326"/>
+<area shape="rect" href="ticks_8hpp.html" title=" " alt="" coords="219,374,327,399"/>
+<area shape="poly" title=" " alt="" coords="352,328,302,366,299,362,349,324"/>
+<area shape="rect" title=" " alt="" coords="5,374,144,399"/>
+<area shape="poly" title=" " alt="" coords="318,329,140,372,139,367,316,324"/>
+<area shape="poly" title=" " alt="" coords="1052,181,888,224,887,219,1051,176"/>
+<area shape="poly" title=" " alt="" coords="1094,180,1041,287,1037,285,1089,178"/>
+<area shape="poly" title=" " alt="" coords="1104,178,1178,358,1174,360,1100,180"/>
+<area shape="poly" title=" " alt="" coords="1099,179,1093,243,1086,285,1074,327,1046,387,1016,436,1011,433,1042,384,1069,325,1081,284,1088,242,1094,178"/>
+<area shape="poly" title=" " alt="" coords="957,107,850,217,847,213,953,103"/>
+<area shape="poly" title=" " alt="" coords="972,104,1022,284,1017,286,967,106"/>
+<area shape="poly" title=" " alt="" coords="990,103,1063,143,1061,147,987,108"/>
+<area shape="rect" title=" " alt="" coords="1283,153,1340,178"/>
+<area shape="poly" title=" " alt="" coords="1314,105,1314,137,1309,137,1309,105"/>
 </map>
 </div>
 </div><table class="memberdecls">

diff --git a/until__light_8hpp.html b/until__light_8hpp.html
@@ -112,9 +112,11 @@ This graph shows which files directly or indirectly include this file:</div>
 <div class="dyncontent">
 <div class="center"><img src="until__light_8hpp__dep__incl.png" border="0" usemap="#ainclude_2sensor_2until__light_8hppdep" alt=""/></div>
 <map name="ainclude_2sensor_2until__light_8hppdep" id="ainclude_2sensor_2until__light_8hppdep">
-<area shape="rect" title=" " alt="" coords="5,5,139,46"/>
-<area shape="rect" href="main_8cpp.html" title=" " alt="" coords="24,94,120,120"/>
-<area shape="poly" title=" " alt="" coords="75,62,75,93,69,93,69,62"/>
+<area shape="rect" title=" " alt="" coords="48,5,181,46"/>
+<area shape="rect" href="main_8cpp.html" title=" " alt="" coords="5,94,101,120"/>
+<area shape="poly" title=" " alt="" coords="92,60,65,95,60,92,88,57"/>
+<area shape="rect" href="main2_8cpp.html" title=" " alt="" coords="124,94,227,120"/>
+<area shape="poly" title=" " alt="" coords="141,57,168,92,164,95,137,60"/>
 </map>
 </div>
 </div>

diff --git a/dir_68267d1309a1af8e8297ef4c3efbcdba.html b/dir_68267d1309a1af8e8297ef4c3efbcdba.html
@@ -112,7 +112,7 @@ Directory dependency graph for src:</div>
 <map name="adir__68267d1309a1af8e8297ef4c3efbcdba__dep" id="adir__68267d1309a1af8e8297ef4c3efbcdba__dep">
 <area shape="rect" href="dir_d44c64559bbebec7f509842c48db8b23.html" title="include" alt="" coords="344,100,406,126"/>
 <area shape="poly" href="dir_000012_000004.html" alt="" coords="62,50,80,61,145,82,213,96,328,108,328,113,212,101,144,87,78,65,59,55"/>
-<area shape="rect" href="dir_000012_000004.html" title="33" alt="" coords="318,94,332,109"/>
+<area shape="rect" href="dir_000012_000004.html" title="34" alt="" coords="318,94,332,109"/>
 <area shape="rect" href="dir_6d2104db64b91953bbd7b8fedbb8a094.html" title="communication" alt="" coords="91,27,200,52"/>
 <area shape="poly" href="dir_000001_000004.html" alt="" coords="182,50,213,60,330,96,328,101,211,66,180,56"/>
 <area shape="rect" href="dir_000001_000004.html" title="3" alt="" coords="325,82,332,97"/>
